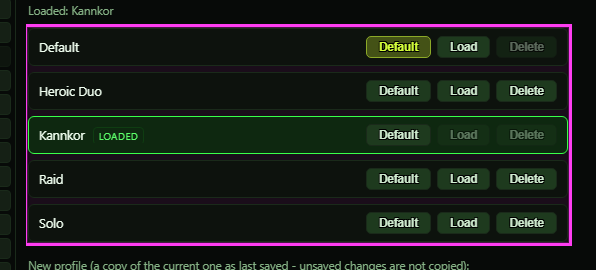
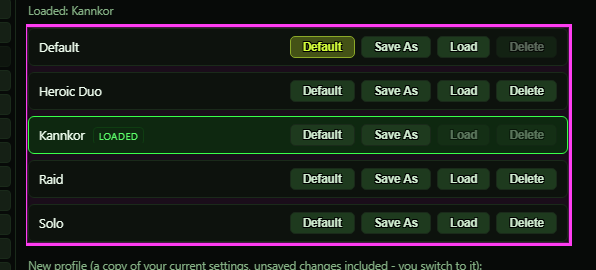
New OgreBot docs: publish the "OgreBot" section (EQ2/bot/)
Generated output from the private docs source (Scripts 9839a8e07+uncommitted); linted for gated names, mkdocs build --strict and link check green.

diff --git a/docs/EQ2/bot/whats-new.md b/docs/EQ2/bot/whats-new.md
@@ -10,6 +10,19 @@ A release is named by the day it was published and its number that day: **2026.1
 
 Dates and times are US Eastern time (EST in winter, EDT in summer).
 
+## 2026.11.08.004 {#r2026-11-08-004}
+
+*Sunday, November 8, 2026 at 11:17 PM EST*
+
+- **New** · Bot: **Inquisitor Verdict options are back, for epic and non-epic mobs.** The Inquisitor tab has a tick box and health % for Epic mobs and for non-Epic mobs; left blank, the % is 5 and 15. They apply to a Verdict entry in your Cast Stack of type UseInquisitorTab, and the entry's own options, such as Named NPCs Only, still apply. Run your ability export again so the type is offered.
+- **New** · Bot: **One character name on several servers, and -s to choose.** A character is now its name plus its server, so the EQ2Chars tab can hold one name on several servers, with a tick marking the default. `ogre <toon>`, `ogre bot <toon>`, `ogre login <toon>` and -LogToonIn take a server, by name or short form (-s ior; `ogre login -?` lists them). Adding a new server now makes another row, so to fix a mistyped server remove the wrong row first.
+- **Changed** · Bot: **Profiles have Save As, and Create now takes your changes with you.** Create now copies your current settings, unsaved changes included, and switches you to the new profile, so Save goes where you expect. Each profile also has a Save As button, which asks before overwriting any profile other than the loaded one. The profile you were on keeps what it last saved.
+- **Fixed** · Bot: **A toon with Allow Camp Spot off keeps following.** A camp spot sent to the whole group no longer stops OgreFollow on a character with Allow Camp Spot off. Follow only gives way to a camp spot that character can actually use.
+- **Fixed** · Bot: **Auto Target when Hated leaves a dead group or raid member alone.** Targeting a dead group or raid member to res them no longer gets swapped to a mob by Auto Target when Hated. A dead mob still gives way to a mob on your group.
+- **Fixed** · Bot: **Changing class on a character reloads OgreBot for that class.** When the same character comes back as another class, OgreBot now reloads as it does for a character swap, instead of carrying on with the old class's cast stack. Each class and server also loads its own ability export, and one with no export gets the usual prompt to make one.
+- **Fixed** · Windows: **Clicking the game releases an Ogre text box on more PCs.** On some PCs a real click on the game did not take the cursor out of an Ogre text box, so typing stayed in OgreConsole. Those clicks now count.
+- **Fixed** · Windows: **Closing a window with a focused text box gives the keyboard back.** Closing, hiding or minimizing an Ogre window while its text box had the cursor left your keys stuck in that box until you clicked back in and pressed Esc. The keyboard now returns to the game.
+
 ## 2026.11.08.003 {#r2026-11-08-003}
 
 *Sunday, November 8, 2026 at 5:21 PM EST*

diff --git a/docs/EQ2/bot/ogrebot/eq2chars.md b/docs/EQ2/bot/ogrebot/eq2chars.md
@@ -14,13 +14,13 @@ EQ2Chars is your list of characters. It does two jobs. Every character on it is 
 | **Character:** | The character's name. Required. | empty |
 | **Account:** | The game account the character is on, used to log it in. Leave blank to only recognise the character (trusted for commands and invites, but no login). | empty |
 | **Password:** | The account's password. It is hidden as you type and goes straight to the private file on this PC, never into your profile. Blank keeps the stored password; a single - clears it.<br>*One password per account, shared by all its characters.* | empty |
-| **Server:** | The server the character plays on. The bot picks this server when logging the character in. Blank keeps the server already stored. | empty |
-| **Add / Save** | Saves the character with the account, password and server typed above. If the character is already listed, its entry is replaced (moved to the new account if you changed it). The password box is emptied afterwards. |  |
+| **Server:** | The server the character plays on. The bot picks this server when logging the character in. A short form works (ior, md). Blank keeps the server already stored; a character on several servers needs it typed. | empty |
+| **Add / Save** | Saves the character with the account, password and server typed above. The same character on the same server is replaced (moved to the new account if you changed it); a new server adds another row, so to fix a mistyped server remove the wrong row. The password box is emptied afterwards. |  |
 | **Clear Fields** | Empties the four boxes on the form. The stored list is not touched. |  |
 | **Clear Character Name after Add** | After Add / Save, the Character box is emptied, ready for the next one. | off |
 | **Clear Account Name after Add** | After Add / Save, the Account box is emptied. Leave it off to add several characters on the same account without retyping it. | off |
 | **Add current Group/Raid** | Adds every player in your group or raid who is not already listed, as 'recognised only' (no login details). Mercenaries and pets are skipped. The first click only tells you how many it would add; click again within 15 seconds to confirm.<br>*Everyone added becomes someone whose commands and invites this character accepts.* |  |
-| **Your characters - click one to edit it, X to forget it** | Every stored character with its account and server. 'Recognised only' in the Account column means no login details are stored. | empty |
+| **Your characters - click one to edit it, X to forget it** | Every stored character with its account and server. 'Recognised only' in the Account column means no login details are stored. A character on several servers has a tick on each row: the bright one is its default, the server used unless you name one. Click another row's tick to move it. | empty |
 
 
 

diff --git a/docs/EQ2/bot/ogrebot/settings.md b/docs/EQ2/bot/ogrebot/settings.md
@@ -207,7 +207,7 @@ Settings covers the bot's everyday conveniences outside combat. 'Pop up windows'
 | **Enable Raid Setups** | In raid zones, the bot runs the encounter setups written for that zone's fights (setup, triggers and mechanics). When off, no setup starts, by itself or by hand. Unticking mid-fight stops everything the fight was doing straight away, and ticking it again carries on watching the same fight without running its setup again. If a setup did run, its clean-up still happens when the mob dies, whichever way this box is.<br>*If a setup already ran for a mob, its clean-up still runs when that mob dies, even after you untick this.* | off |
 | **Enable Heroic Setups** | The same as 'Enable Raid Setups', but for every zone that is not a raid zone (heroic, solo and so on). Turn it off at any point in a fight to take over, and back on to carry on. | off |
 | **Disable Auto Setups** | Stops encounter setups starting on their own, in both raid and heroic zones. A setup you start yourself, or one the Instance Controller asks for, still runs, and a fight already set up carries on. The zone's Enable Raid Setups or Enable Heroic Setups box must still be on for any setup to run. | off |
-| **Auto Target when Hated** | When you have no target, or only something you can't fight (a corpse, chest, shiny or NoKill NPC), the bot looks about once a second for a mob within 30 meters (and roughly your height) that is attacking someone in your group, and targets it. It never does this while you are assisting someone (Auto Assist). | off |
+| **Auto Target when Hated** | When you have no target, or only something you can't fight (a mob's corpse, chest, shiny or NoKill NPC, but not a dead group or raid member, so you can res them), the bot looks about once a second for a mob within 30 meters (and roughly your height) that is attacking someone in your group, and targets it. It never does this while you are assisting someone (Auto Assist). | off |
 | **Disable Mortal Coil Dispel** | Mages: the bot normally dispels the 'Mortal Coil' buff from named mobs in range with your dispel ability. Tick this to stop it.<br>*'No Dispels' on the Settings tab also stops it.* | off |
 | **Wait for Recovery time** | Normally the bot picks the next ability the moment a cast lands, queuing it during the recovery time. Tick this to make it wait out each ability's recovery time (minus 0.2 seconds) first. Items are not affected. | off |
 | **Allow Specials to be Targets** | Lets the bot fight a Special actor (not an NPC and not a player, such as a door or a clickable object): when your target, or your target's target, is one, it becomes your kill target, and the Cast Stack, auto-attack and movement act on it as on a mob. A few zones whose fights need this allow it with the box off. | off |

diff --git a/docs/EQ2/bot/developer/coming-from-classic/ogrebotapi.md b/docs/EQ2/bot/developer/coming-from-classic/ogrebotapi.md
@@ -792,8 +792,8 @@ Old names whose job is now in `OgreBotAPI.Session`.
 | `OgreBotAPI.CurrentCharacter` | reads NULL | `OgreBotAPI.Session.CharacterName` | ✏ Renamed |  |
 | `OgreBotAPI.Get_ReviveLocation` | reads NULL | `OgreBotAPI.Session.ReviveLocation` | ✏ Renamed |  |
 | `OgreBotAPI:ImmRes` | does nothing | `OgreBotAPI.Session:ImmRes` `[fw,howManyDead=2]` | ⚠ Arguments changed | The for-who is now argument 0 - the Classic call had none (it acted on the session running it). Put `all` first: a script's own call only runs on the session running it, so that keeps it. |
-| `OgreBotAPI:LoginAtCharacterSelect` | does nothing | `OgreBotAPI.Session:LogToonIn` `[forToon,toon]` | ⚠ Arguments changed | **Old:** ``OgreBotAPI:LoginAtCharacterSelect[<fw>,<character>]. New: OgreBotAPI.Session:LogToonIn[<box>,<character>] - the box is its InnerSpace session name or its character's name, and at character select or the login screen the character it last played. `all` is refused: name the box. With no character the old call pressed Play on the character already selected - OgreBotAPI.Session:PlayAtCharacterSelect[<fw>] still does that`` |
-| `OgreBotAPI:LogToonIn` | does nothing | `OgreBotAPI.Session:LogToonIn` `[forToon,toon]` | ➡ Moved |  |
+| `OgreBotAPI:LoginAtCharacterSelect` | does nothing | `OgreBotAPI.Session:LogToonIn` `[forToon,toon,server=""]` | ⚠ Arguments changed | **Old:** ``OgreBotAPI:LoginAtCharacterSelect[<fw>,<character>]. New: OgreBotAPI.Session:LogToonIn[<box>,<character>] - the box is its InnerSpace session name or its character's name, and at character select or the login screen the character it last played. `all` is refused: name the box. With no character the old call pressed Play on the character already selected - OgreBotAPI.Session:PlayAtCharacterSelect[<fw>] still does that`` |
+| `OgreBotAPI:LogToonIn` | does nothing | `OgreBotAPI.Session:LogToonIn` `[forToon,toon,server=""]` | ➡ Moved |  |
 | `OgreBotAPI:PlayAtCharacterSelect` | does nothing | `OgreBotAPI.Session:PlayAtCharacterSelect` `[fw]` | ⚠ Arguments changed | The for-who is now argument 0 - the Classic call had none (it acted on the session running it). Put `all` first: a script's own call only runs on the session running it, so that keeps it. Gained a for-who. It runs at character select, where `${Me}` does not exist, so it does not need a character to be logged in. |
 | `OgreBotAPI:Question` | reads NULL | `OgreBotAPI.Session:CollectShiny` `[fw]` | ✏ Renamed |  |
 | `OgreBotAPI:Res` | does nothing | `OgreBotAPI.Session:Res` `[fw]` | ➡ Moved |  |

diff --git a/docs/EQ2/bot/ogrebot/class-tab.md b/docs/EQ2/bot/ogrebot/class-tab.md
@@ -90,6 +90,19 @@ The class tab is named after your class (Coercer, Dirge, Channeler, and so on) a
 
 
 
+## Inquisitor
+
+[![Inquisitor tab](../assets/ogrebot-classes/class-inquisitor.png)](../assets/ogrebot-classes/class-inquisitor.png "Click for full size")
+
+| Option | What it does | Default |
+|---|---|---|
+| **Verdict on Epic mobs at or below this health % (blank = 5%):** | Verdict for Epic mobs: a Verdict entry on your Cast Stack with the type 'UseInquisitorTab' is used on epic mobs only while this is ticked and the mob is at or below the health % beside it. The entry's own options, such as Named NPCs Only, still apply. | off |
+| **(% box beside it)** | The mob health % for Epic mobs. Left blank, it is 5%, shown greyed in the box. | empty (5%) |
+| **Verdict on non-Epic mobs (heroic or solo) at or below this health % (blank = 15%):** | Verdict for non-Epic mobs: a Verdict entry on your Cast Stack with the type 'UseInquisitorTab' is used on heroic and solo mobs only while this is ticked and the mob is at or below the health % beside it. The entry's own options, such as Named NPCs Only, still apply. | off |
+| **(% box beside it)** | The mob health % for non-Epic mobs. Left blank, it is 15%, shown greyed in the box. | empty (15%) |
+
+
+
 ## Mystic
 
 [![Mystic tab](../assets/ogrebot-classes/class-mystic.png)](../assets/ogrebot-classes/class-mystic.png "Click for full size")
@@ -159,4 +172,5 @@ The class tab is named after your class (Coercer, Dirge, Channeler, and so on) a
 - Channeler: the conduit drop-downs hold an ability NAME. A choice carried over from an old profile works; the bot finds that ability in your ability export.
 - Coercer: for the Possess Essence options to count, the Possess Essence entry in your Cast Stack must have the type 'UseCoercerTab' (the ability export sets this for you). With no Archetype Preference chosen, Possess Essence is never cast.
 - Dirge: 'Cast Confront Fear' must be ticked for your dirge to cure anyone - requests from the uplink, from chat, and your own revive sickness. Requests still queue while it is off and are dropped after 2 minutes.
+- Inquisitor: for the Verdict options to count, the Verdict entry in your Cast Stack must have the type 'UseInquisitorTab' (the ability export sets this for you; export again if the type is not offered). Heroic and solo mobs are the same setting: only epic or not epic matters.
 

diff --git a/docs/EQ2/bot/ogrebot/index.md b/docs/EQ2/bot/ogrebot/index.md
@@ -134,9 +134,10 @@ A profile is a complete set of settings. One character can have several, for exa
 | **A profile row** | One row per profile. The loaded one is outlined and tagged LOADED. |  |
 | **Default** | Makes this the profile OgreBot loads when it starts. The current default's button is lit up and does nothing when clicked. | the profile named Default, on a new character |
 | **Load** | Switches to this profile. Every tab and the cast stack change to its settings. If the profile has unsaved changes, it asks first, because they are thrown away.<br>*Greyed out on the profile that is already loaded.* |  |
+| **Save As** | On the loaded profile it saves. On any other profile it asks to overwrite that profile with your current settings, unsaved changes included, then switches to it.<br>*The profile you were on keeps what it last saved. What the overwritten profile held is lost. Settings in shared parts save as a normal Save would, so they still reach every profile using that part.* |  |
 | **Delete** | Asks 'Permanently delete <name>? This cannot be undone.', then removes the profile from disk.<br>*Greyed out on the loaded profile and on the default profile. You also cannot delete a character's last profile.* |  |
 | **New profile name... (box)** | Type a name for a new profile. Press Enter or click Create. | empty |
-| **Create** | Makes a new profile that is a copy of the loaded one as it was last saved, and saves it to disk at once. You stay on the profile you had. Load the new one to use it.<br>*Unsaved changes are not copied: Save first if the copy should include them. Names are not case-sensitive, so 'raid' is refused if 'Raid' exists.* |  |
+| **Create** | Makes a new profile from your current settings, unsaved changes included, saves it to disk at once and switches to it, so Save now goes to the new profile.<br>*The profile you were on keeps what it last saved. Names are not case-sensitive, so 'raid' is refused if 'Raid' exists.* |  |
 | **Confirm box: OK / Cancel** | Save, Reload, Load and Delete ask here first. OK goes ahead (red for Delete). Cancel does nothing. |  |
 
 

diff --git a/docs/EQ2/bot/developer/coming-from-classic/options.md b/docs/EQ2/bot/developer/coming-from-classic/options.md
@@ -4,7 +4,7 @@
 
 # OgreBot option ids
 
-Scripts and MCP buttons change OgreBot's options by id: `oc !c -ChangeOgreBotUIOption <who> <id> <value>`, `OgreBotAPI.Options:Set[<who>,<id>,<value>]`, or read one with `${OgreBotAPI.Options.Value[<id>]}`. Most ids are the same in the new bot (692 of them exist there). The ones below are Classic ids the new bot does not have.
+Scripts and MCP buttons change OgreBot's options by id: `oc !c -ChangeOgreBotUIOption <who> <id> <value>`, `OgreBotAPI.Options:Set[<who>,<id>,<value>]`, or read one with `${OgreBotAPI.Options.Value[<id>]}`. Most ids are the same in the new bot (696 of them exist there). The ones below are Classic ids the new bot does not have.
 
 > **:warning: Setting an id the new bot does not have does nothing**
 >
